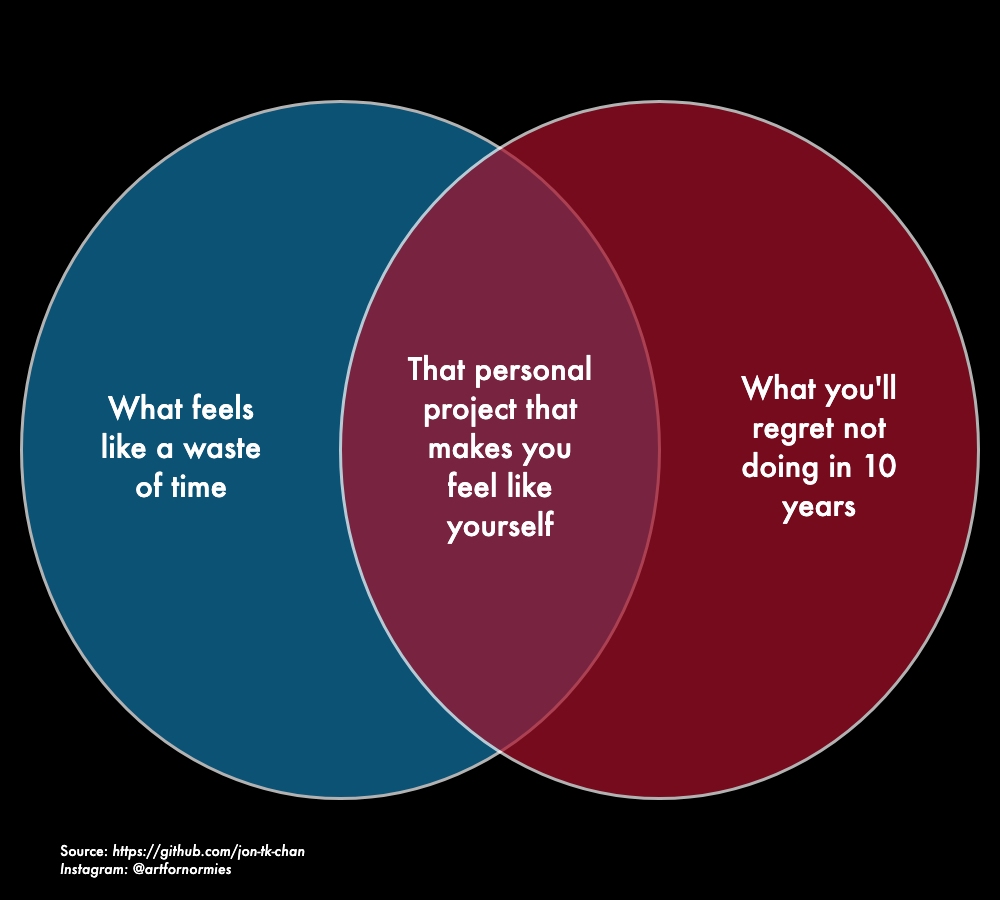
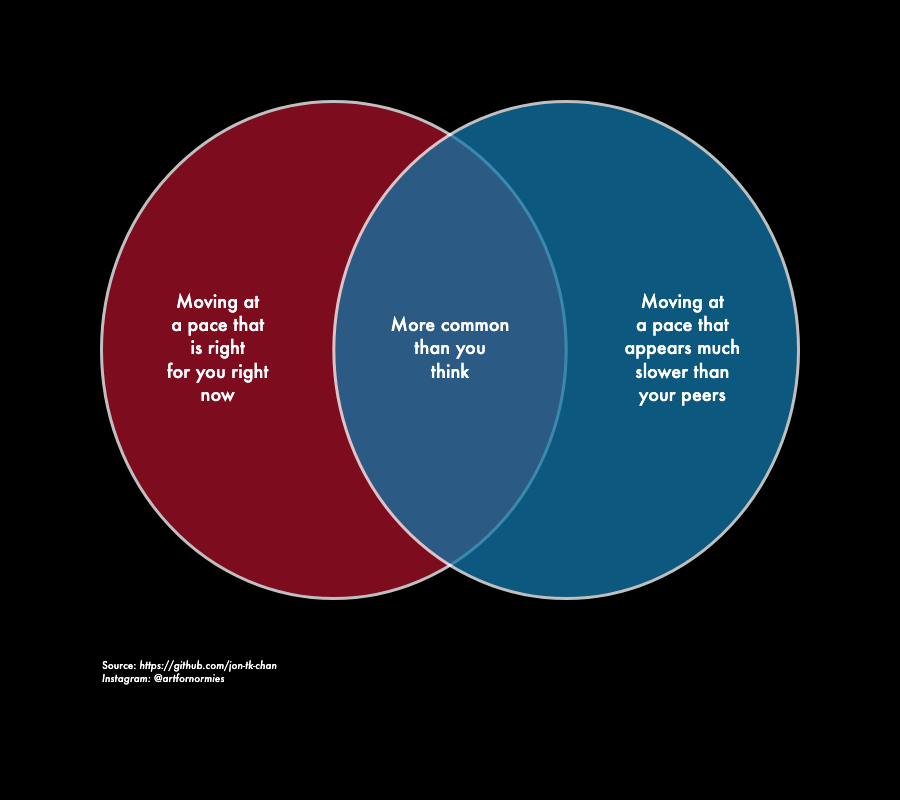
adjusted default text sizes in object vers

diff --git a/artfornormies/object_graphs.py b/artfornormies/object_graphs.py
@@ -53,10 +53,10 @@ def newlined(input_string, max_line_len=12):
 #boilerplate figure
 
 class Chart():
-    def __init__(self, fig_width=1000, fig_height= 1000, night_mode=True, opacity_val=0.75,
+    def __init__(self, fig_width=750, fig_height= 600, night_mode=True, opacity_val=0.75,
                 # main_title="MAIN TITLE", 
                  label_charlen = 10,
-                 title_size=32,axis_label_size=28,tick_label_size=16, label_size= 22, anno_size=4, 
+                 title_size=20,axis_label_size=20, tick_label_size=16, label_size= 18, anno_size=10, 
                 anno_text= "Source: <i>https://github.com/jon-tk-chan</i><br><i>Instagram: @artfornormies</i>"):
         #create attributes
         self.fig_width = fig_width

diff --git a/README.md b/README.md
@@ -17,17 +17,17 @@ pip install artfornormies
 
 Generate a visual using one of the listed functions:
 ```
-from artfornormies import functions as art
+from artfornormies.object_graphs import Chart
 
-fig = art.create_venn_2(
-    venn_labels=["What feels like a waste of time",
-                "What you'll regret not doing in 10 years",
-                "That personal project that makes you feel like yourself"
-                ],
-    main_title="",
-    fill_venn=True,
-    night_mode=True
-)
+afn = Chart(fig_width = 900, fig_height=800,night_mode = True, opacity_val=0.75,
+                title_size=20, axis_label_size=20, tick_label_size=16, label_size=18, anno_size=10,
+                label_charlen=9, anno_text= "Source: <i>https://github.com/jon-tk-chan</i><br><i>Instagram: @artfornormies</i>"
+            )
+
+afn.create_venn_2(text_labels=["Moving at a pace that is right for you right now", 
+                              "Moving at a pace that appears much slower than your peers",
+                              "More common than you think"],
+                  main_title="")
 
 fig.write_image("images/ex_plot.png")
 ```
